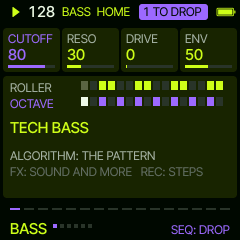
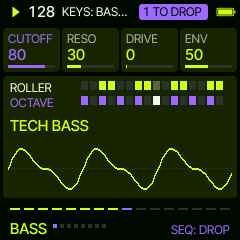
A synth layer's home: the pattern and its bar at the top (what waits under it), the sound's name, the scope across the bottom; the hints gone
Claude-Session: https://claude.ai/code/session_01VgesZgNNDFiPGvKyDTZVUK

diff --git a/firmware/src/sa_ui.c b/firmware/src/sa_ui.c
@@ -1025,6 +1025,21 @@ static const sa_code *sv_with_b(sa_code *tmp, const sa_code *c, uint8_t b)
     return tmp;
 }
 
+/* a code's bar (a bit a sixteenth), worked out again when it changed (slot 0: what plays, 1: what waits) */
+static uint16_t sv_pv(sa_ui *u, int slot, const sa_code *c, int l)
+{
+    if (u->force || u->pv_layer != l || memcmp(&u->pv_code[slot], c, sizeof *c)) {
+        if (u->pv_layer != l) memset(u->pv_code, 0xFF, sizeof u->pv_code);
+        u->pv_layer = l;
+        SV_LOCK();
+        u->pv_bits[slot] = c->type == SA_T_NONE ? 0 : sa_preview(u->g, c, l, 0);
+        SV_UNLOCK();
+        u->pv_code[slot] = *c;
+    }
+    return u->pv_bits[slot];
+}
+
+/* a layer's top: its pattern's name and bar (the step playing lit); what SEQ drops below it, in the accent */
 static void sv_layer_top(sa_ui *u, int l)
 {
     sa_groove *g = u->g;
@@ -1036,24 +1051,30 @@ static void sv_layer_top(sa_ui *u, int l)
     }
     bool pend = sa_layer_pending(g, l), mute = g->s.live[l].mute;
     bool off = lv->type == SA_T_NONE || (lv->pat == SA_PAT_OFF && !lv->own);
+    int now = sv_now(g);
     char t[24];
-    int32_t x0 = 80, w = 152, cy = 16, h = 12;
-    uint16_t c = mute || off ? T_DIM : pend ? T_ACCENT : T_THEME;
-    cv_rect(x0, cy, w, 1, ux_mix(T_SURF, T_LINE, 60));
-    if (u->wave_n > 1 && !mute) {
-        int32_t py = cy - u->wave[0] * h / 120;
-        for (int i = 1; i < u->wave_n; ++i) {
-            int32_t x = x0 + i * (w - 1) / (u->wave_n - 1), y = cy - u->wave[i] * h / 120;
-            cv_line_t(x0 + (i - 1) * (w - 1) / (u->wave_n - 1), py, x, y, c, 2);
-            py = y;
-        }
-    }
     sa_pat_label(lv, t, sizeof t);
-    cv_free_text(10, 4, &AF_S, mute ? "MUTED" : off ? "OFF" : t, mute ? T_ACCENT : off ? T_DIM : T_MID, T_SURF, 66);
+    cv_free_text(10, 4, &AF_S, mute ? "MUTED" : off ? "OFF" : t, mute ? T_ACCENT : off ? T_DIM : T_TEXT, T_SURF, 66);
+    sv_strip(80, 5, 152, 9, off ? 0 : sv_pv(u, 0, lv, l), now, T_THEME, mute || off);
     if (pend) {
+        bool gone = e->type == SA_T_NONE || (e->pat == SA_PAT_OFF && !e->own);
         if (e->type == SA_T_NONE) sv_cpy(t, "GOES", sizeof t);
         else sa_pat_label(e, t, sizeof t);
-        cv_free_text(10, 18, &AF_S, t, T_ACCENT, T_SURF, 66);
+        cv_free_text(10, 19, &AF_S, gone ? "OFF" : t, T_ACCENT, T_SURF, 66);
+        sv_strip(80, 20, 152, 9, gone ? 0 : sv_pv(u, 1, e, l), now, T_ACCENT, gone);
+    }
+}
+
+/* the scope: the layer's sound now, a cycle or two, across the bottom */
+static void sv_scope(sa_ui *u, int32_t x0, int32_t cy, int32_t w, int32_t h, uint16_t c)
+{
+    cv_rect(x0, cy, w, 1, ux_mix(T_SURF, T_LINE, 60));
+    if (u->wave_n < 2) return;
+    int32_t py = cy - u->wave[0] * h / 120;
+    for (int i = 1; i < u->wave_n; ++i) {
+        int32_t x = x0 + i * (w - 1) / (u->wave_n - 1), y = cy - u->wave[i] * h / 120;
+        cv_line_t(x0 + (i - 1) * (w - 1) / (u->wave_n - 1), py, x, y, c, 2);
+        py = y;
     }
 }
 
@@ -1157,9 +1178,9 @@ static void sv_panel_mix(sa_ui *u)
 static void sv_panel_synth_home(sa_ui *u)
 {
     const sa_code *lc = sv_live(u);
-    cv_free_text(10, 42, &AF_M, sas_of(lc->sound)->name, T_THEME, T_SURF, 220);
-    sv_label(10, 72, "ALGORITHM: THE PATTERN", T_MID);
-    sv_label(10, 88, "FX: VOLUME, SOUND AND MORE", T_DIM);
+    bool mute = u->g->s.live[u->layer].mute, off = lc->pat == SA_PAT_OFF && !lc->own;
+    cv_free_text(10, 40, &AF_M, sas_of(lc->sound)->name, mute || off ? T_DIM : T_THEME, T_SURF, 220);
+    sv_scope(u, 8, 92, 224, 26, mute || off ? T_DIM : T_THEME);   /* (the bottom, the whole width) */
 }
 
 /* DRUMS: every row (its drum, its bar, the bar playing through it; OFF dimmed), KNOB 1's pick lit */

diff --git a/docs/MANUAL.md b/docs/MANUAL.md
@@ -63,8 +63,9 @@ gets a B made from its A when it loads. PART goes back to A when a set comes in.
 
 ## LEAD, CHORD, BASS
 
-At the top of a layer's pages its sound as it plays, a wave (a flat line when it is silent), beside its pattern (the
-second colour under it: what SEQ drops). A layer opens on its home page: **CUTOFF**, **RESO**, **DRIVE**, **ENV** (the filter envelope, 50: the sound's own),
+At the top of a layer's pages its pattern and its bar, the step playing lit (under it, in the second colour: what SEQ
+drops). Its home page shows the sound's name and, across the bottom, the scope: the sound as it plays, a wave (a flat
+line when it is silent). A layer opens on its home page: **CUTOFF**, **RESO**, **DRIVE**, **ENV** (the filter envelope, 50: the sound's own),
 at once. ALGORITHM turns its pattern: OFF, then the patterns of its kind (BASS the bass lines, CHORD stabs and pads,
 LEAD lead lines and the bass lines). FX turns through its pages:
 
